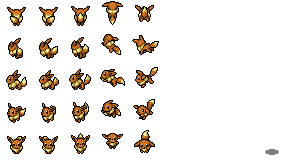
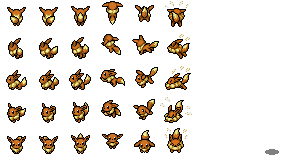
Fix dash; add missing eevee sprites

diff --git a/src/server/game/controllers.ts b/src/server/game/controllers.ts
@@ -130,6 +130,10 @@ export class SocketController implements Crawl.Controller {
 			this.lastMap = undefined;
 		}
 
+		if (event.type === "attack") {
+			this.dashing = false;
+		}
+
 		this.checkGraphics(event.entity.graphics);
 		this.log.push(event);
 	}
